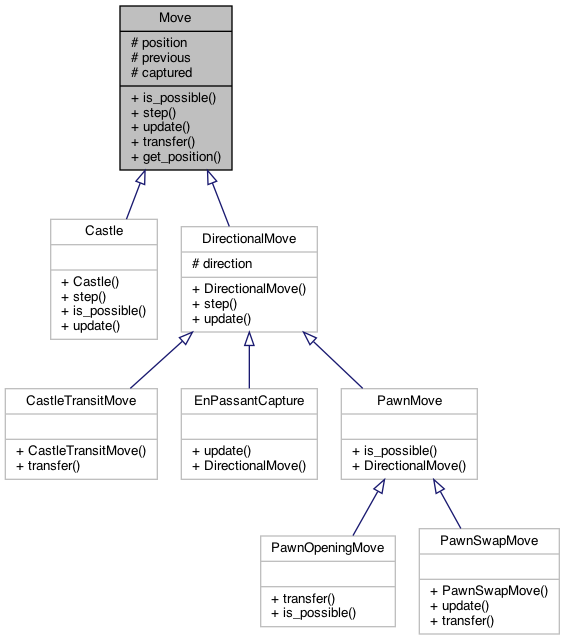
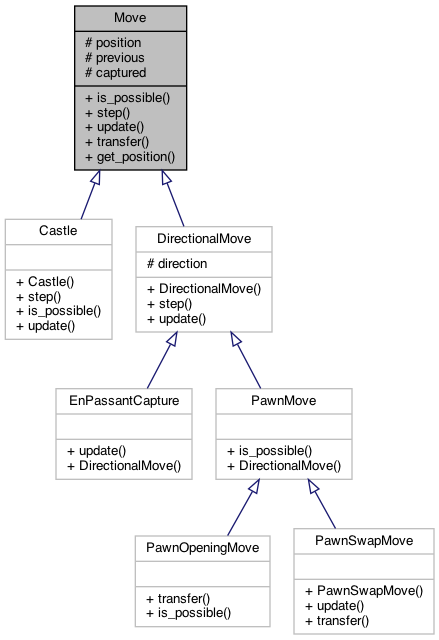
Fix in UML diagrams

Changed region(s): [[0.0, 0.0, 0.9772, 1.0], [0.533, 0.7812, 0.5626, 0.8125]]

diff --git a/chesscpp/docs/html/annotated.html b/chesscpp/docs/html/annotated.html
@@ -71,22 +71,21 @@ $(function() {
 <tr id="row_1_"><td class="entry"><span style="width:16px;display:inline-block;">&#160;</span><span class="icona"><span class="icon">C</span></span><a class="el" href="class_board_in_check_exception.html" target="_self">BoardInCheckException</a></td><td class="desc"></td></tr>
 <tr id="row_2_" class="even"><td class="entry"><span style="width:16px;display:inline-block;">&#160;</span><span class="icona"><span class="icon">C</span></span><a class="el" href="class_board_state.html" target="_self">BoardState</a></td><td class="desc"></td></tr>
 <tr id="row_3_"><td class="entry"><span style="width:16px;display:inline-block;">&#160;</span><span class="icona"><span class="icon">C</span></span><a class="el" href="class_castle.html" target="_self">Castle</a></td><td class="desc"></td></tr>
-<tr id="row_4_" class="even"><td class="entry"><span style="width:16px;display:inline-block;">&#160;</span><span class="icona"><span class="icon">C</span></span><a class="el" href="class_castle_transit_move.html" target="_self">CastleTransitMove</a></td><td class="desc"></td></tr>
-<tr id="row_5_"><td class="entry"><span style="width:16px;display:inline-block;">&#160;</span><span class="icona"><span class="icon">C</span></span><a class="el" href="struct_castling_rights.html" target="_self">CastlingRights</a></td><td class="desc"></td></tr>
-<tr id="row_6_" class="even"><td class="entry"><span style="width:16px;display:inline-block;">&#160;</span><span class="icona"><span class="icon">C</span></span><a class="el" href="struct_color_castling_rights.html" target="_self">ColorCastlingRights</a></td><td class="desc"></td></tr>
-<tr id="row_7_"><td class="entry"><span style="width:16px;display:inline-block;">&#160;</span><span class="icona"><span class="icon">C</span></span><a class="el" href="class_directional_move.html" target="_self">DirectionalMove</a></td><td class="desc"></td></tr>
-<tr id="row_8_" class="even"><td class="entry"><span style="width:16px;display:inline-block;">&#160;</span><span class="icona"><span class="icon">C</span></span><a class="el" href="class_en_passant_capture.html" target="_self">EnPassantCapture</a></td><td class="desc"></td></tr>
-<tr id="row_9_"><td class="entry"><span style="width:16px;display:inline-block;">&#160;</span><span class="icona"><span class="icon">C</span></span><a class="el" href="class_king.html" target="_self">King</a></td><td class="desc"></td></tr>
-<tr id="row_10_" class="even"><td class="entry"><span style="width:16px;display:inline-block;">&#160;</span><span class="icona"><span class="icon">C</span></span><a class="el" href="class_knight.html" target="_self">Knight</a></td><td class="desc"></td></tr>
-<tr id="row_11_"><td class="entry"><span style="width:16px;display:inline-block;">&#160;</span><span class="icona"><span class="icon">C</span></span><a class="el" href="class_move.html" target="_self">Move</a></td><td class="desc"></td></tr>
-<tr id="row_12_" class="even"><td class="entry"><span style="width:16px;display:inline-block;">&#160;</span><span class="icona"><span class="icon">C</span></span><a class="el" href="class_pawn.html" target="_self">Pawn</a></td><td class="desc"></td></tr>
-<tr id="row_13_"><td class="entry"><span style="width:16px;display:inline-block;">&#160;</span><span class="icona"><span class="icon">C</span></span><a class="el" href="class_pawn_move.html" target="_self">PawnMove</a></td><td class="desc"></td></tr>
-<tr id="row_14_" class="even"><td class="entry"><span style="width:16px;display:inline-block;">&#160;</span><span class="icona"><span class="icon">C</span></span><a class="el" href="class_pawn_opening_move.html" target="_self">PawnOpeningMove</a></td><td class="desc"></td></tr>
-<tr id="row_15_"><td class="entry"><span style="width:16px;display:inline-block;">&#160;</span><span class="icona"><span class="icon">C</span></span><a class="el" href="class_pawn_swap_move.html" target="_self">PawnSwapMove</a></td><td class="desc"></td></tr>
-<tr id="row_16_" class="even"><td class="entry"><span style="width:16px;display:inline-block;">&#160;</span><span class="icona"><span class="icon">C</span></span><a class="el" href="class_piece.html" target="_self">Piece</a></td><td class="desc"></td></tr>
-<tr id="row_17_"><td class="entry"><span style="width:16px;display:inline-block;">&#160;</span><span class="icona"><span class="icon">C</span></span><a class="el" href="class_queen.html" target="_self">Queen</a></td><td class="desc"></td></tr>
-<tr id="row_18_" class="even"><td class="entry"><span style="width:16px;display:inline-block;">&#160;</span><span class="icona"><span class="icon">C</span></span><a class="el" href="class_rook.html" target="_self">Rook</a></td><td class="desc"></td></tr>
-<tr id="row_19_"><td class="entry"><span style="width:16px;display:inline-block;">&#160;</span><span class="icona"><span class="icon">C</span></span><a class="el" href="struct_window.html" target="_self">Window</a></td><td class="desc"></td></tr>
+<tr id="row_4_" class="even"><td class="entry"><span style="width:16px;display:inline-block;">&#160;</span><span class="icona"><span class="icon">C</span></span><a class="el" href="struct_castling_rights.html" target="_self">CastlingRights</a></td><td class="desc"></td></tr>
+<tr id="row_5_"><td class="entry"><span style="width:16px;display:inline-block;">&#160;</span><span class="icona"><span class="icon">C</span></span><a class="el" href="struct_color_castling_rights.html" target="_self">ColorCastlingRights</a></td><td class="desc"></td></tr>
+<tr id="row_6_" class="even"><td class="entry"><span style="width:16px;display:inline-block;">&#160;</span><span class="icona"><span class="icon">C</span></span><a class="el" href="class_directional_move.html" target="_self">DirectionalMove</a></td><td class="desc"></td></tr>
+<tr id="row_7_"><td class="entry"><span style="width:16px;display:inline-block;">&#160;</span><span class="icona"><span class="icon">C</span></span><a class="el" href="class_en_passant_capture.html" target="_self">EnPassantCapture</a></td><td class="desc"></td></tr>
+<tr id="row_8_" class="even"><td class="entry"><span style="width:16px;display:inline-block;">&#160;</span><span class="icona"><span class="icon">C</span></span><a class="el" href="class_king.html" target="_self">King</a></td><td class="desc"></td></tr>
+<tr id="row_9_"><td class="entry"><span style="width:16px;display:inline-block;">&#160;</span><span class="icona"><span class="icon">C</span></span><a class="el" href="class_knight.html" target="_self">Knight</a></td><td class="desc"></td></tr>
+<tr id="row_10_" class="even"><td class="entry"><span style="width:16px;display:inline-block;">&#160;</span><span class="icona"><span class="icon">C</span></span><a class="el" href="class_move.html" target="_self">Move</a></td><td class="desc"></td></tr>
+<tr id="row_11_"><td class="entry"><span style="width:16px;display:inline-block;">&#160;</span><span class="icona"><span class="icon">C</span></span><a class="el" href="class_pawn.html" target="_self">Pawn</a></td><td class="desc"></td></tr>
+<tr id="row_12_" class="even"><td class="entry"><span style="width:16px;display:inline-block;">&#160;</span><span class="icona"><span class="icon">C</span></span><a class="el" href="class_pawn_move.html" target="_self">PawnMove</a></td><td class="desc"></td></tr>
+<tr id="row_13_"><td class="entry"><span style="width:16px;display:inline-block;">&#160;</span><span class="icona"><span class="icon">C</span></span><a class="el" href="class_pawn_opening_move.html" target="_self">PawnOpeningMove</a></td><td class="desc"></td></tr>
+<tr id="row_14_" class="even"><td class="entry"><span style="width:16px;display:inline-block;">&#160;</span><span class="icona"><span class="icon">C</span></span><a class="el" href="class_pawn_swap_move.html" target="_self">PawnSwapMove</a></td><td class="desc"></td></tr>
+<tr id="row_15_"><td class="entry"><span style="width:16px;display:inline-block;">&#160;</span><span class="icona"><span class="icon">C</span></span><a class="el" href="class_piece.html" target="_self">Piece</a></td><td class="desc"></td></tr>
+<tr id="row_16_" class="even"><td class="entry"><span style="width:16px;display:inline-block;">&#160;</span><span class="icona"><span class="icon">C</span></span><a class="el" href="class_queen.html" target="_self">Queen</a></td><td class="desc"></td></tr>
+<tr id="row_17_"><td class="entry"><span style="width:16px;display:inline-block;">&#160;</span><span class="icona"><span class="icon">C</span></span><a class="el" href="class_rook.html" target="_self">Rook</a></td><td class="desc"></td></tr>
+<tr id="row_18_" class="even"><td class="entry"><span style="width:16px;display:inline-block;">&#160;</span><span class="icona"><span class="icon">C</span></span><a class="el" href="struct_window.html" target="_self">Window</a></td><td class="desc"></td></tr>
 </table>
 </div><!-- directory -->
 </div><!-- contents -->

diff --git a/chesscpp/docs/html/hierarchy.html b/chesscpp/docs/html/hierarchy.html
@@ -77,19 +77,18 @@ This inheritance list is sorted roughly, but not completely, alphabetically:</di
 <tr id="row_4_"><td class="entry"><span style="width:0px;display:inline-block;">&#160;</span><span id="arr_4_" class="arrow" onclick="toggleFolder('4_')">&#9660;</span><span class="icona"><span class="icon">C</span></span><a class="el" href="class_move.html" target="_self">Move</a></td><td class="desc"></td></tr>
 <tr id="row_4_0_" class="even"><td class="entry"><span style="width:32px;display:inline-block;">&#160;</span><span class="icona"><span class="icon">C</span></span><a class="el" href="class_castle.html" target="_self">Castle</a></td><td class="desc"></td></tr>
 <tr id="row_4_1_"><td class="entry"><span style="width:16px;display:inline-block;">&#160;</span><span id="arr_4_1_" class="arrow" onclick="toggleFolder('4_1_')">&#9660;</span><span class="icona"><span class="icon">C</span></span><a class="el" href="class_directional_move.html" target="_self">DirectionalMove</a></td><td class="desc"></td></tr>
-<tr id="row_4_1_0_" class="even"><td class="entry"><span style="width:48px;display:inline-block;">&#160;</span><span class="icona"><span class="icon">C</span></span><a class="el" href="class_castle_transit_move.html" target="_self">CastleTransitMove</a></td><td class="desc"></td></tr>
-<tr id="row_4_1_1_"><td class="entry"><span style="width:48px;display:inline-block;">&#160;</span><span class="icona"><span class="icon">C</span></span><a class="el" href="class_en_passant_capture.html" target="_self">EnPassantCapture</a></td><td class="desc"></td></tr>
-<tr id="row_4_1_2_" class="even"><td class="entry"><span style="width:32px;display:inline-block;">&#160;</span><span id="arr_4_1_2_" class="arrow" onclick="toggleFolder('4_1_2_')">&#9660;</span><span class="icona"><span class="icon">C</span></span><a class="el" href="class_pawn_move.html" target="_self">PawnMove</a></td><td class="desc"></td></tr>
-<tr id="row_4_1_2_0_"><td class="entry"><span style="width:64px;display:inline-block;">&#160;</span><span class="icona"><span class="icon">C</span></span><a class="el" href="class_pawn_opening_move.html" target="_self">PawnOpeningMove</a></td><td class="desc"></td></tr>
-<tr id="row_4_1_2_1_" class="even"><td class="entry"><span style="width:64px;display:inline-block;">&#160;</span><span class="icona"><span class="icon">C</span></span><a class="el" href="class_pawn_swap_move.html" target="_self">PawnSwapMove</a></td><td class="desc"></td></tr>
-<tr id="row_5_"><td class="entry"><span style="width:0px;display:inline-block;">&#160;</span><span id="arr_5_" class="arrow" onclick="toggleFolder('5_')">&#9660;</span><span class="icona"><span class="icon">C</span></span><a class="el" href="class_piece.html" target="_self">Piece</a></td><td class="desc"></td></tr>
-<tr id="row_5_0_" class="even"><td class="entry"><span style="width:32px;display:inline-block;">&#160;</span><span class="icona"><span class="icon">C</span></span><a class="el" href="class_bishop.html" target="_self">Bishop</a></td><td class="desc"></td></tr>
-<tr id="row_5_1_"><td class="entry"><span style="width:32px;display:inline-block;">&#160;</span><span class="icona"><span class="icon">C</span></span><a class="el" href="class_king.html" target="_self">King</a></td><td class="desc"></td></tr>
-<tr id="row_5_2_" class="even"><td class="entry"><span style="width:32px;display:inline-block;">&#160;</span><span class="icona"><span class="icon">C</span></span><a class="el" href="class_knight.html" target="_self">Knight</a></td><td class="desc"></td></tr>
-<tr id="row_5_3_"><td class="entry"><span style="width:32px;display:inline-block;">&#160;</span><span class="icona"><span class="icon">C</span></span><a class="el" href="class_pawn.html" target="_self">Pawn</a></td><td class="desc"></td></tr>
-<tr id="row_5_4_" class="even"><td class="entry"><span style="width:32px;display:inline-block;">&#160;</span><span class="icona"><span class="icon">C</span></span><a class="el" href="class_queen.html" target="_self">Queen</a></td><td class="desc"></td></tr>
-<tr id="row_5_5_"><td class="entry"><span style="width:32px;display:inline-block;">&#160;</span><span class="icona"><span class="icon">C</span></span><a class="el" href="class_rook.html" target="_self">Rook</a></td><td class="desc"></td></tr>
-<tr id="row_6_" class="even"><td class="entry"><span style="width:16px;display:inline-block;">&#160;</span><span class="icona"><span class="icon">C</span></span><a class="el" href="struct_window.html" target="_self">Window</a></td><td class="desc"></td></tr>
+<tr id="row_4_1_0_" class="even"><td class="entry"><span style="width:48px;display:inline-block;">&#160;</span><span class="icona"><span class="icon">C</span></span><a class="el" href="class_en_passant_capture.html" target="_self">EnPassantCapture</a></td><td class="desc"></td></tr>
+<tr id="row_4_1_1_"><td class="entry"><span style="width:32px;display:inline-block;">&#160;</span><span id="arr_4_1_1_" class="arrow" onclick="toggleFolder('4_1_1_')">&#9660;</span><span class="icona"><span class="icon">C</span></span><a class="el" href="class_pawn_move.html" target="_self">PawnMove</a></td><td class="desc"></td></tr>
+<tr id="row_4_1_1_0_" class="even"><td class="entry"><span style="width:64px;display:inline-block;">&#160;</span><span class="icona"><span class="icon">C</span></span><a class="el" href="class_pawn_opening_move.html" target="_self">PawnOpeningMove</a></td><td class="desc"></td></tr>
+<tr id="row_4_1_1_1_"><td class="entry"><span style="width:64px;display:inline-block;">&#160;</span><span class="icona"><span class="icon">C</span></span><a class="el" href="class_pawn_swap_move.html" target="_self">PawnSwapMove</a></td><td class="desc"></td></tr>
+<tr id="row_5_" class="even"><td class="entry"><span style="width:0px;display:inline-block;">&#160;</span><span id="arr_5_" class="arrow" onclick="toggleFolder('5_')">&#9660;</span><span class="icona"><span class="icon">C</span></span><a class="el" href="class_piece.html" target="_self">Piece</a></td><td class="desc"></td></tr>
+<tr id="row_5_0_"><td class="entry"><span style="width:32px;display:inline-block;">&#160;</span><span class="icona"><span class="icon">C</span></span><a class="el" href="class_bishop.html" target="_self">Bishop</a></td><td class="desc"></td></tr>
+<tr id="row_5_1_" class="even"><td class="entry"><span style="width:32px;display:inline-block;">&#160;</span><span class="icona"><span class="icon">C</span></span><a class="el" href="class_king.html" target="_self">King</a></td><td class="desc"></td></tr>
+<tr id="row_5_2_"><td class="entry"><span style="width:32px;display:inline-block;">&#160;</span><span class="icona"><span class="icon">C</span></span><a class="el" href="class_knight.html" target="_self">Knight</a></td><td class="desc"></td></tr>
+<tr id="row_5_3_" class="even"><td class="entry"><span style="width:32px;display:inline-block;">&#160;</span><span class="icona"><span class="icon">C</span></span><a class="el" href="class_pawn.html" target="_self">Pawn</a></td><td class="desc"></td></tr>
+<tr id="row_5_4_"><td class="entry"><span style="width:32px;display:inline-block;">&#160;</span><span class="icona"><span class="icon">C</span></span><a class="el" href="class_queen.html" target="_self">Queen</a></td><td class="desc"></td></tr>
+<tr id="row_5_5_" class="even"><td class="entry"><span style="width:32px;display:inline-block;">&#160;</span><span class="icona"><span class="icon">C</span></span><a class="el" href="class_rook.html" target="_self">Rook</a></td><td class="desc"></td></tr>
+<tr id="row_6_"><td class="entry"><span style="width:16px;display:inline-block;">&#160;</span><span class="icona"><span class="icon">C</span></span><a class="el" href="struct_window.html" target="_self">Window</a></td><td class="desc"></td></tr>
 </table>
 </div><!-- directory -->
 </div><!-- contents -->

diff --git a/chesscpp/docs/html/moves_8hpp_source.html b/chesscpp/docs/html/moves_8hpp_source.html
@@ -149,20 +149,10 @@ $(function() {
 <div class="line"><a id="l00078" name="l00078"></a><span class="lineno">   78</span>    CastleSide side;</div>
 <div class="line"><a id="l00079" name="l00079"></a><span class="lineno">   79</span>};</div>
 <div class="line"><a id="l00080" name="l00080"></a><span class="lineno">   80</span> </div>
-<div class="line"><a id="l00081" name="l00081"></a><span class="lineno"><a class="line" href="class_castle_transit_move.html">   81</a></span><span class="keyword">class </span><a class="code hl_class" href="class_castle_transit_move.html">CastleTransitMove</a> : <span class="keyword">public</span> <a class="code hl_class" href="class_directional_move.html">DirectionalMove</a></div>
-<div class="line"><a id="l00082" name="l00082"></a><span class="lineno">   82</span>{</div>
-<div class="line"><a id="l00083" name="l00083"></a><span class="lineno">   83</span><span class="keyword">public</span>:</div>
-<div class="line"><a id="l00084" name="l00084"></a><span class="lineno">   84</span>    <a class="code hl_class" href="class_castle_transit_move.html">CastleTransitMove</a>(Direction direction, Position position, CastleSide side = KingSide);</div>
-<div class="line"><a id="l00085" name="l00085"></a><span class="lineno">   85</span>    <span class="keyword">virtual</span> <span class="keywordtype">void</span> transfer(BoardStates &amp;boardStates, <a class="code hl_class" href="class_board_state.html">BoardState</a> oldState);</div>
-<div class="line"><a id="l00086" name="l00086"></a><span class="lineno">   86</span><span class="keyword">private</span>:</div>
-<div class="line"><a id="l00087" name="l00087"></a><span class="lineno">   87</span>    CastleSide side;</div>
-<div class="line"><a id="l00088" name="l00088"></a><span class="lineno">   88</span>};</div>
-<div class="line"><a id="l00089" name="l00089"></a><span class="lineno">   89</span> </div>
-<div class="line"><a id="l00090" name="l00090"></a><span class="lineno">   90</span><span class="preprocessor">#endif</span></div>
+<div class="line"><a id="l00081" name="l00081"></a><span class="lineno">   81</span><span class="preprocessor">#endif</span></div>
 <div class="ttc" id="aclass_board_in_check_exception_html"><div class="ttname"><a href="class_board_in_check_exception.html">BoardInCheckException</a></div><div class="ttdef"><b>Definition:</b> moves.hpp:5</div></div>
 <div class="ttc" id="aclass_board_state_html"><div class="ttname"><a href="class_board_state.html">BoardState</a></div><div class="ttdef"><b>Definition:</b> types.hpp:41</div></div>
 <div class="ttc" id="aclass_castle_html"><div class="ttname"><a href="class_castle.html">Castle</a></div><div class="ttdef"><b>Definition:</b> moves.hpp:70</div></div>
-<div class="ttc" id="aclass_castle_transit_move_html"><div class="ttname"><a href="class_castle_transit_move.html">CastleTransitMove</a></div><div class="ttdef"><b>Definition:</b> moves.hpp:82</div></div>
 <div class="ttc" id="aclass_directional_move_html"><div class="ttname"><a href="class_directional_move.html">DirectionalMove</a></div><div class="ttdef"><b>Definition:</b> moves.hpp:24</div></div>
 <div class="ttc" id="aclass_en_passant_capture_html"><div class="ttname"><a href="class_en_passant_capture.html">EnPassantCapture</a></div><div class="ttdef"><b>Definition:</b> moves.hpp:61</div></div>
 <div class="ttc" id="aclass_move_html"><div class="ttname"><a href="class_move.html">Move</a></div><div class="ttdef"><b>Definition:</b> moves.hpp:10</div></div>

diff --git a/chesscpp/docs/html/class_move.html b/chesscpp/docs/html/class_move.html
@@ -74,14 +74,13 @@ Inheritance diagram for Move:</div>
 <div class="dyncontent">
 <div class="center"><img src="class_move__inherit__graph.png" border="0" usemap="#a_move_inherit__map" alt="Inheritance graph"/></div>
 <map name="a_move_inherit__map" id="a_move_inherit__map">
-<area shape="rect" title=" " alt="" coords="120,5,232,171"/>
-<area shape="rect" href="class_castle.html" title=" " alt="" coords="51,219,157,340"/>
-<area shape="rect" href="class_directional_move.html" title=" " alt="" coords="181,226,317,333"/>
-<area shape="rect" href="class_castle_transit_move.html" title=" " alt="" coords="5,388,157,480"/>
-<area shape="rect" href="class_en_passant_capture.html" title=" " alt="" coords="181,388,317,480"/>
-<area shape="rect" href="class_pawn_move.html" title=" " alt="" coords="341,388,477,480"/>
-<area shape="rect" href="class_pawn_opening_move.html" title=" " alt="" coords="261,535,395,627"/>
-<area shape="rect" href="class_pawn_swap_move.html" title=" " alt="" coords="419,528,559,635"/>
+<area shape="rect" title=" " alt="" coords="75,5,187,171"/>
+<area shape="rect" href="class_castle.html" title=" " alt="" coords="5,219,112,340"/>
+<area shape="rect" href="class_directional_move.html" title=" " alt="" coords="136,226,272,333"/>
+<area shape="rect" href="class_en_passant_capture.html" title=" " alt="" coords="56,388,192,480"/>
+<area shape="rect" href="class_pawn_move.html" title=" " alt="" coords="216,388,352,480"/>
+<area shape="rect" href="class_pawn_opening_move.html" title=" " alt="" coords="135,535,270,627"/>
+<area shape="rect" href="class_pawn_swap_move.html" title=" " alt="" coords="294,528,434,635"/>
 </map>
 </div>
 <div class="dynheader">

diff --git a/chesscpp/docs/html/class_directional_move.html b/chesscpp/docs/html/class_directional_move.html
@@ -74,13 +74,12 @@ Inheritance diagram for DirectionalMove:</div>
 <div class="dyncontent">
 <div class="center"><img src="class_directional_move__inherit__graph.png" border="0" usemap="#a_directional_move_inherit__map" alt="Inheritance graph"/></div>
 <map name="a_directional_move_inherit__map" id="a_directional_move_inherit__map">
-<area shape="rect" title=" " alt="" coords="181,219,317,325"/>
-<area shape="rect" href="class_castle_transit_move.html" title=" " alt="" coords="5,373,157,465"/>
-<area shape="rect" href="class_en_passant_capture.html" title=" " alt="" coords="181,373,317,465"/>
-<area shape="rect" href="class_pawn_move.html" title=" " alt="" coords="341,373,477,465"/>
-<area shape="rect" href="class_move.html" title=" " alt="" coords="193,5,305,171"/>
-<area shape="rect" href="class_pawn_opening_move.html" title=" " alt="" coords="261,521,395,613"/>
-<area shape="rect" href="class_pawn_swap_move.html" title=" " alt="" coords="419,513,559,620"/>
+<area shape="rect" title=" " alt="" coords="85,219,221,325"/>
+<area shape="rect" href="class_en_passant_capture.html" title=" " alt="" coords="5,373,141,465"/>
+<area shape="rect" href="class_pawn_move.html" title=" " alt="" coords="165,373,301,465"/>
+<area shape="rect" href="class_move.html" title=" " alt="" coords="97,5,209,171"/>
+<area shape="rect" href="class_pawn_opening_move.html" title=" " alt="" coords="85,521,219,613"/>
+<area shape="rect" href="class_pawn_swap_move.html" title=" " alt="" coords="243,513,383,620"/>
 </map>
 </div>
 <div class="dynheader">

diff --git a/chesscpp/docs/html/inherits.html b/chesscpp/docs/html/inherits.html
@@ -88,11 +88,10 @@ $(function() {
 <area shape="rect" href="class_move.html" title=" " alt="" coords="5,31,60,57"/>
 <area shape="rect" href="class_castle.html" title=" " alt="" coords="136,5,196,32"/>
 <area shape="rect" href="class_directional_move.html" title=" " alt="" coords="108,56,224,83"/>
-<area shape="rect" href="class_castle_transit_move.html" title=" " alt="" coords="272,5,404,32"/>
-<area shape="rect" href="class_en_passant_capture.html" title=" " alt="" coords="272,56,404,83"/>
-<area shape="rect" href="class_pawn_move.html" title=" " alt="" coords="295,107,381,133"/>
-<area shape="rect" href="class_pawn_opening_move.html" title=" " alt="" coords="452,81,587,108"/>
-<area shape="rect" href="class_pawn_swap_move.html" title=" " alt="" coords="459,132,579,159"/>
+<area shape="rect" href="class_en_passant_capture.html" title=" " alt="" coords="272,31,404,57"/>
+<area shape="rect" href="class_pawn_move.html" title=" " alt="" coords="295,81,381,108"/>
+<area shape="rect" href="class_pawn_opening_move.html" title=" " alt="" coords="452,56,587,83"/>
+<area shape="rect" href="class_pawn_swap_move.html" title=" " alt="" coords="459,107,579,133"/>
 </map>
 </td></tr>
 <tr><td><img src="inherit_graph_4.png" border="0" usemap="#a_piece" alt=""/>

diff --git a/chesscpp/docs/html/classes.html b/chesscpp/docs/html/classes.html
@@ -72,7 +72,7 @@ $(function() {
 <dd><a class="el" href="class_bishop.html">Bishop</a></dd><dd><a class="el" href="class_board_in_check_exception.html">BoardInCheckException</a></dd><dd><a class="el" href="class_board_state.html">BoardState</a></dd></dl>
 <dl class="classindex odd">
 <dt class="alphachar"><a id="letter_C" name="letter_C">C</a></dt>
-<dd><a class="el" href="class_castle.html">Castle</a></dd><dd><a class="el" href="class_castle_transit_move.html">CastleTransitMove</a></dd><dd><a class="el" href="struct_castling_rights.html">CastlingRights</a></dd><dd><a class="el" href="struct_color_castling_rights.html">ColorCastlingRights</a></dd></dl>
+<dd><a class="el" href="class_castle.html">Castle</a></dd><dd><a class="el" href="struct_castling_rights.html">CastlingRights</a></dd><dd><a class="el" href="struct_color_castling_rights.html">ColorCastlingRights</a></dd></dl>
 <dl class="classindex even">
 <dt class="alphachar"><a id="letter_D" name="letter_D">D</a></dt>
 <dd><a class="el" href="class_directional_move.html">DirectionalMove</a></dd></dl>

diff --git a/chesscpp/docs/html/search/all_1.js b/chesscpp/docs/html/search/all_1.js
@@ -1,7 +1,6 @@
 var searchData=
 [
   ['castle_0',['Castle',['../class_castle.html',1,'']]],
-  ['castletransitmove_1',['CastleTransitMove',['../class_castle_transit_move.html',1,'']]],
-  ['castlingrights_2',['CastlingRights',['../struct_castling_rights.html',1,'']]],
-  ['colorcastlingrights_3',['ColorCastlingRights',['../struct_color_castling_rights.html',1,'']]]
+  ['castlingrights_1',['CastlingRights',['../struct_castling_rights.html',1,'']]],
+  ['colorcastlingrights_2',['ColorCastlingRights',['../struct_color_castling_rights.html',1,'']]]
 ];

diff --git a/chesscpp/docs/html/search/classes_1.js b/chesscpp/docs/html/search/classes_1.js
@@ -1,7 +1,6 @@
 var searchData=
 [
   ['castle_0',['Castle',['../class_castle.html',1,'']]],
-  ['castletransitmove_1',['CastleTransitMove',['../class_castle_transit_move.html',1,'']]],
-  ['castlingrights_2',['CastlingRights',['../struct_castling_rights.html',1,'']]],
-  ['colorcastlingrights_3',['ColorCastlingRights',['../struct_color_castling_rights.html',1,'']]]
+  ['castlingrights_1',['CastlingRights',['../struct_castling_rights.html',1,'']]],
+  ['colorcastlingrights_2',['ColorCastlingRights',['../struct_color_castling_rights.html',1,'']]]
 ];
